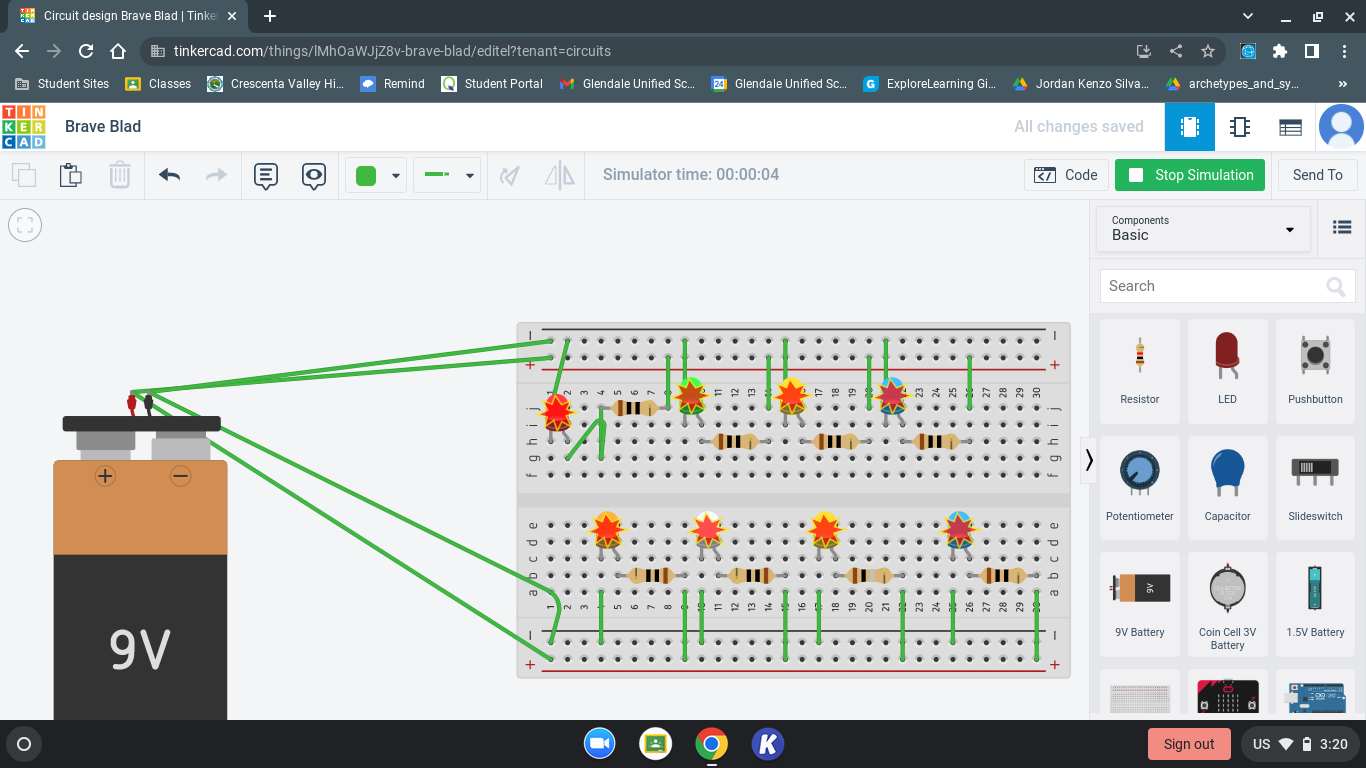
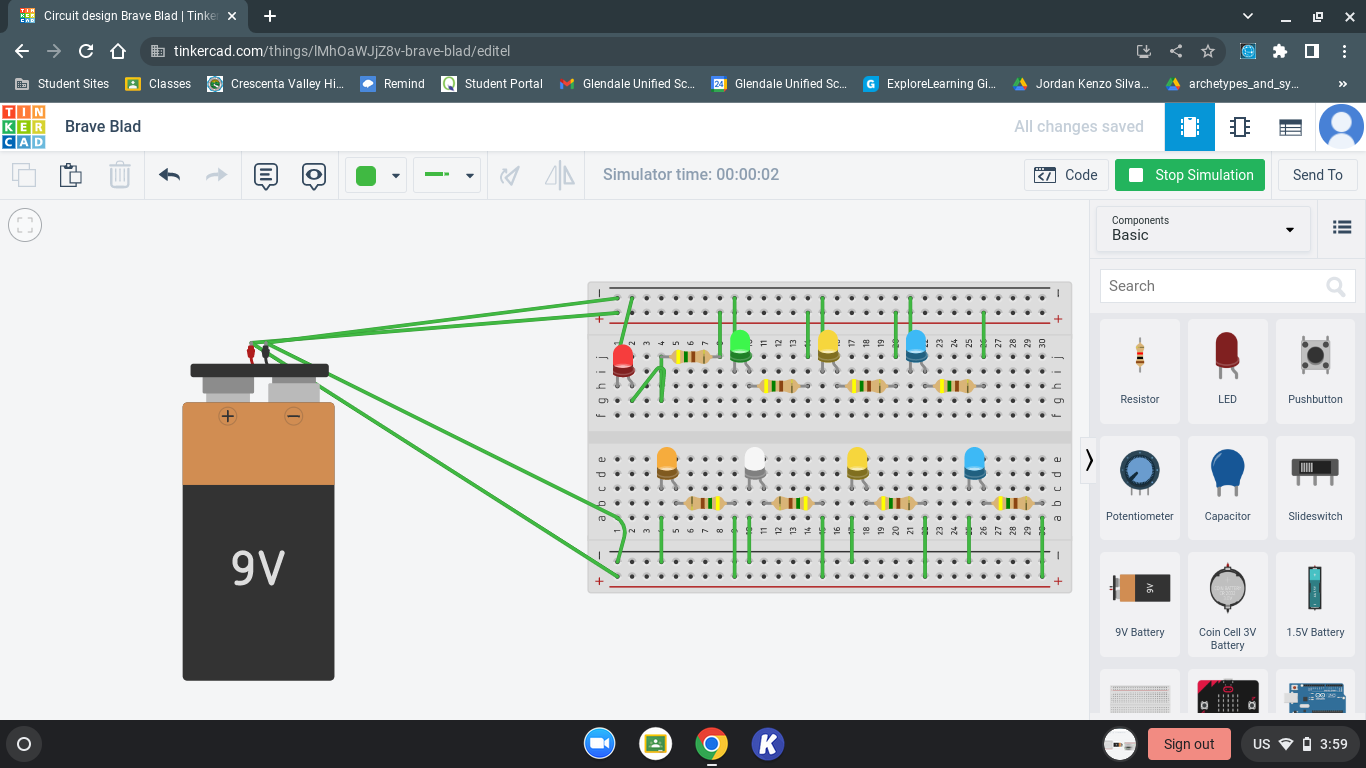
10/31

diff --git a/index.html b/index.html
@@ -230,12 +230,17 @@
         <br>
         <P>
             <U>Week of 10/31/22</U>
-            This week, I learned about electrical engineering. There are four types of units used: Voltage (Volts), Current (Amps), Resistnace (Ohms) and Power (Watts). The main goal for the next three weeks is understanding how these work within a set environment. This environment will be composed of breadboards and Arduinos. The amount of any of these units can be calculated through V=IR and P=IV. Values can be solved through Algerbraic means. On Wedsnday, TinkerCad was used to simulate a basic circuit on a breadboard. The cicruit was composed of a power source, LED and a resistor. 
+            This week, I learned about electrical engineering. There are four types of units used: Voltage (Volts), Current (Amps), Resistnace (Ohms) and Power (Watts). The main goal for the next three weeks is understanding how these work within a set environment. This environment will be composed of breadboards and Arduinos on the final week. The amount of any of these units can be calculated through V=IR and P=IV. Values can be solved through Algerbraic means. On Wedsnday, TinkerCad was used to simulate a basic circuit on a breadboard. The cicruit was composed of a power source, LED and a resistor. On Thursday, we were tasked to complete three labs based upon how the LEDs were arranged. The LEDs were arrranged in Parrallel, Series and dividing the voltage of 150V. The first 2 labs were easy, however the third was the most difficult due to the amount of voltage that must be reduced to 3V to power the LED.
             <br>
             <br>
             <u>Example Circuit made:</u>
             <br>
             <img src = "LEDC.png" width = "600px">
+            <br>
+            <br>
+            <u>Labs involving LEDs in Parrallel and Series:</u>
+            <br>
+            <img src = "Lab1_2.png" width = "600px">
         </P>
     </body>
 </html>
